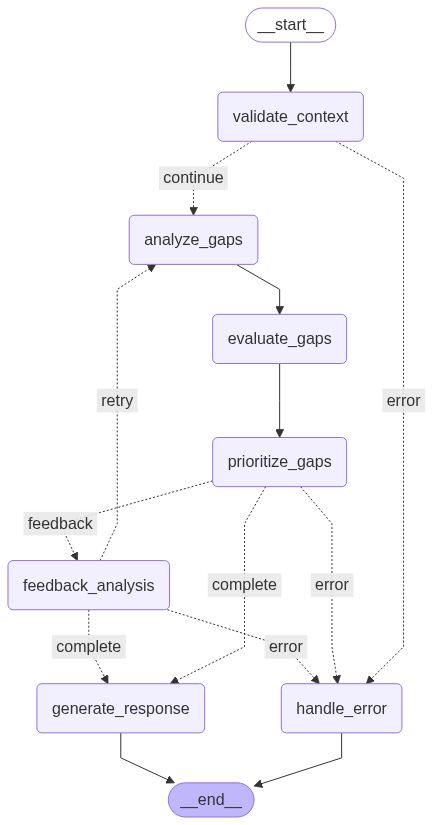
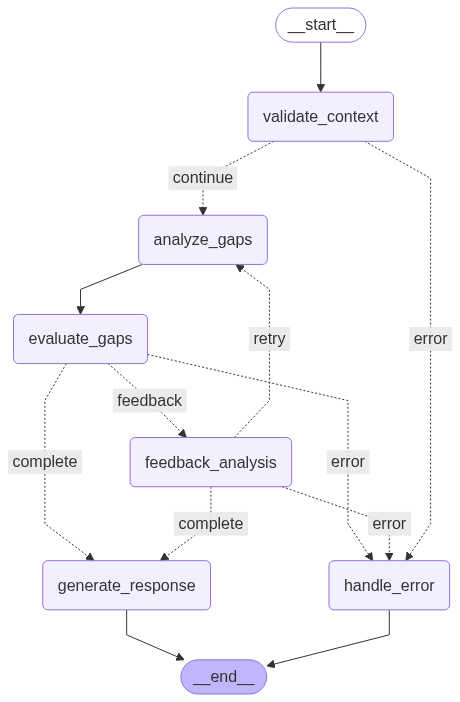
remove gap priorization

diff --git a/gapanalyzer/workflow.py b/gapanalyzer/workflow.py
@@ -26,7 +26,6 @@ from .schemas import (
     EducationalContext,
     IdentifiedGap,
     GapEvaluation,
-    PrioritizedGap,
     GapAnalysisResult,
     GapAnalysisResponse,
     GapSeverity,
@@ -45,8 +44,7 @@ class GapAnalysisWorkflow:
     1. retrieve_context: Get educational context from KG
     2. analyze_gaps: Identify learning gaps from student question
     3. evaluate_gaps: Assess relevance and importance of gaps
-    4. prioritize_gaps: Rank gaps by pedagogical importance
-    5. generate_response: Create final structured response
+    4. generate_response: Create final structured response
     """
     
     def __init__(self):
@@ -63,7 +61,6 @@ class GapAnalysisWorkflow:
         workflow.add_node("validate_context", self._validate_context)
         workflow.add_node("analyze_gaps", self._analyze_gaps)
         workflow.add_node("evaluate_gaps", self._evaluate_gaps)
-        workflow.add_node("prioritize_gaps", self._prioritize_gaps)
         workflow.add_node("feedback_analysis", self._feedback_analysis)
         workflow.add_node("generate_response", self._generate_response)
         workflow.add_node("handle_error", self._handle_error)
@@ -74,13 +71,12 @@ class GapAnalysisWorkflow:
         # Add basic edges
         workflow.add_edge("validate_context", "analyze_gaps")
         workflow.add_edge("analyze_gaps", "evaluate_gaps")
-        workflow.add_edge("evaluate_gaps", "prioritize_gaps")
         workflow.add_edge("generate_response", END)
         workflow.add_edge("handle_error", END)
         
         # Add conditional edges for feedback loop
         workflow.add_conditional_edges(
-            "prioritize_gaps",
+            "evaluate_gaps",
             self._should_do_feedback,
             {
                 "feedback": "feedback_analysis",
@@ -124,10 +120,10 @@ class GapAnalysisWorkflow:
         
         # Check if we should do feedback based on gap analysis quality
         if (state.feedback_iterations < state.max_feedback_iterations and
-            len(state.prioritized_gaps) > 0):
+            len(state.evaluated_gaps) > 0):
             
             # Analyze if gaps seem incomplete or low confidence
-            avg_confidence = sum(pg.evaluation.priority_score for pg in state.prioritized_gaps) / len(state.prioritized_gaps)
+            avg_confidence = sum(eval_gap.priority_score for eval_gap in state.evaluated_gaps) / len(state.evaluated_gaps)
             
             if avg_confidence < 0.6 or state.educational_context.needs_theory_lookup:
                 state.needs_feedback = True
@@ -422,49 +418,6 @@ Evalúa cada gap según los criterios pedagógicos.""")
         
         return state
     
-    async def _prioritize_gaps(self, state: WorkflowState) -> WorkflowState:
-        """
-        Node 4: Prioritize gaps by pedagogical importance.
-        
-        This node combines the gaps with their evaluations and ranks them by priority.
-        Recommendation generation is handled by a separate agent.
-        """
-        try:
-            logger.info("Prioritizing gaps by pedagogical importance")
-            
-            # Create gap-evaluation pairs
-            gap_eval_pairs = []
-            for gap in state.raw_gaps:
-                # Find corresponding evaluation
-                evaluation = next(
-                    (eval for eval in state.evaluated_gaps if eval.gap_id == gap.gap_id),
-                    None
-                )
-                if evaluation:
-                    gap_eval_pairs.append((gap, evaluation))
-            
-            # Sort by priority score (highest first)
-            gap_eval_pairs.sort(key=lambda x: x[1].priority_score, reverse=True)
-            
-            # Create PrioritizedGap objects without recommendations
-            prioritized_gaps = []
-            for i, (gap, evaluation) in enumerate(gap_eval_pairs):
-                prioritized_gap = PrioritizedGap(
-                    gap=gap,
-                    evaluation=evaluation,
-                    rank=i + 1,
-                    recommended_actions=[]  # Empty - handled by separate recommendation agent
-                )
-                prioritized_gaps.append(prioritized_gap)
-            
-            state.prioritized_gaps = prioritized_gaps
-            logger.info(f"Prioritized {len(prioritized_gaps)} gaps by pedagogical importance")
-                
-        except Exception as e:
-            logger.error(f"Error in gap prioritization: {e}")
-            state.error_message = f"Gap prioritization failed: {str(e)}"
-        
-        return state
     
     async def _generate_response(self, state: WorkflowState) -> WorkflowState:
         """
@@ -479,7 +432,7 @@ Evalúa cada gap según los criterios pedagógicos.""")
             confidence_factors = []
             
             # Factor 1: Number of gaps found (more gaps = more thorough analysis)
-            gap_count = len(state.prioritized_gaps)
+            gap_count = len(state.raw_gaps)
             if gap_count >= 3:
                 confidence_factors.append(0.9)
             elif gap_count >= 2:
@@ -505,15 +458,13 @@ Evalúa cada gap según los criterios pedagógicos.""")
             
             # Generate summary
             summary_parts = []
-            if state.prioritized_gaps:
-                top_gap = state.prioritized_gaps[0]
-                summary_parts.append(f"Se identificaron {len(state.prioritized_gaps)} gaps de aprendizaje.")
-                summary_parts.append(f"El gap de mayor prioridad es: {top_gap.gap.title}")
+            if state.raw_gaps:
+                summary_parts.append(f"Se identificaron {len(state.raw_gaps)} gaps de aprendizaje.")
                 
                 # Add severity distribution
                 severity_counts = {}
-                for pg in state.prioritized_gaps:
-                    severity = pg.gap.severity.value
+                for gap in state.raw_gaps:
+                    severity = gap.severity.value
                     severity_counts[severity] = severity_counts.get(severity, 0) + 1
                 
                 if severity_counts:
@@ -535,8 +486,8 @@ Evalúa cada gap según los criterios pedagógicos.""")
             final_result = GapAnalysisResult(
                 student_context=state.student_context,
                 educational_context=state.educational_context,
-                identified_gaps=[pg.gap for pg in state.prioritized_gaps],
-                prioritized_gaps=state.prioritized_gaps,
+                identified_gaps=state.raw_gaps,
+                prioritized_gaps=[],  # Empty since we removed prioritization
                 summary=summary,
                 confidence_score=confidence_score,
                 recommendations=general_recommendations
@@ -593,23 +544,26 @@ Evalúa cada gap según los criterios pedagógicos.""")
                     logger.info(f"Retrieved theoretical content for: {main_concept}")
             
             # Analyze gap quality and decide if another iteration is warranted
-            if len(state.prioritized_gaps) == 0:
+            if len(state.raw_gaps) == 0:
                 state.feedback_reason = "No se encontraron gaps - se requiere análisis más profundo"
                 state.needs_feedback = True
-            elif len(state.prioritized_gaps) < 2:
+            elif len(state.raw_gaps) < 2:
                 # Check if the single gap is comprehensive
-                single_gap = state.prioritized_gaps[0]
-                if len(single_gap.gap.description) < 50:
+                single_gap = state.raw_gaps[0]
+                if len(single_gap.description) < 50:
                     state.feedback_reason = "Gap identificado parece superficial - se requiere análisis más detallado"
                     state.needs_feedback = True
                 else:
                     state.needs_feedback = False
             else:
-                # Check overall confidence
-                avg_priority = sum(pg.evaluation.priority_score for pg in state.prioritized_gaps) / len(state.prioritized_gaps)
-                if avg_priority < 0.5:
-                    state.feedback_reason = "Baja confianza en priorización - refinando análisis"
-                    state.needs_feedback = True
+                # Check overall confidence based on evaluations
+                if state.evaluated_gaps:
+                    avg_confidence = sum(eval_gap.priority_score for eval_gap in state.evaluated_gaps) / len(state.evaluated_gaps)
+                    if avg_confidence < 0.5:
+                        state.feedback_reason = "Baja confianza en evaluación - refinando análisis"
+                        state.needs_feedback = True
+                    else:
+                        state.needs_feedback = False
                 else:
                     state.needs_feedback = False
             
@@ -643,7 +597,7 @@ Evalúa cada gap según los criterios pedagógicos.""")
                 theory_background="Error al recuperar contexto"
             ),
             identified_gaps=[],
-            prioritized_gaps=[],
+            prioritized_gaps=[],  # Empty since prioritization was removed
             summary=f"Error en el análisis: {state.error_message}",
             confidence_score=0.0,
             recommendations=["Intentar nuevamente", "Verificar conexto proporcionado", "Contactar soporte técnico"]

diff --git a/gapanalyzer/agent.py b/gapanalyzer/agent.py
@@ -22,22 +22,20 @@ class GapAnalyzerAgent:
     Educational Gap Analyzer Agent.
     
     This agent analyzes student questions about practice exercises to identify
-    learning gaps, evaluate their importance, and provide prioritized recommendations
-    for addressing those gaps.
+    learning gaps and evaluate their importance for addressing learning needs.
     
     The agent uses a sophisticated LangGraph workflow that:
     1. Retrieves educational context from the knowledge graph
     2. Analyzes the student's question to identify specific learning gaps
     3. Evaluates gaps for pedagogical relevance and importance
-    4. Prioritizes gaps and generates specific recommendations
-    5. Provides a structured analysis with actionable insights
+    4. Provides a structured analysis with actionable insights
     """
 
     SYSTEM_INSTRUCTION = (
         'Eres un tutor inteligente especializado en análisis de gaps educativos. '
         'Tu función es analizar las preguntas de los estudiantes sobre ejercicios prácticos '
         'para identificar gaps específicos en su aprendizaje y proporcionar recomendaciones '
-        'priorizadas para abordar esos gaps. '
+        'para abordar esos gaps. '
         'Utilizas el contexto educativo completo incluyendo teoría, objetivos, ejercicios, '
         'soluciones y tips del profesor para realizar un análisis profundo y pedagógicamente relevante.'
     )
@@ -155,16 +153,13 @@ class GapAnalyzerAgent:
             response_parts.append(f"**Confianza del análisis:** {result.confidence_score:.1%}")
             response_parts.append("")
             
-            # Top priority gaps
-            if result.prioritized_gaps:
-                response_parts.append("**GAPS IDENTIFICADOS (por prioridad):**")
+            # Identified gaps
+            if result.identified_gaps:
+                response_parts.append("**GAPS IDENTIFICADOS:**")
                 response_parts.append("")
                 
-                for i, pg in enumerate(result.prioritized_gaps[:5], 1):  # Show top 5
-                    gap = pg.gap
-                    eval = pg.evaluation
-                    
-                    response_parts.append(f"**{i}. {gap.title}** (Prioridad: {eval.priority_score:.2f})")
+                for i, gap in enumerate(result.identified_gaps, 1):
+                    response_parts.append(f"**{i}. {gap.title}**")
                     response_parts.append(f"   Descripción: {gap.description}")
                     response_parts.append(f"   Categoría: {gap.category.value.title()}")
                     response_parts.append(f"   Severidad: {gap.severity.value.title()}")
@@ -172,12 +167,6 @@ class GapAnalyzerAgent:
                     
                     if gap.affected_concepts:
                         response_parts.append(f"   Conceptos afectados: {', '.join(gap.affected_concepts)}")
-                    
-                    # Individual gap recommendations handled by separate agent
-                    # if pg.recommended_actions:
-                    #     response_parts.append("   **Acciones recomendadas:**")
-                    #     for action in pg.recommended_actions:
-                    #         response_parts.append(f"      • {action}")
                     
                     response_parts.append("")
             else:
@@ -245,11 +234,11 @@ class GapAnalyzerAgent:
                 'content': 'Evaluando relevancia pedagógica de los gaps...',
             }
             
-            # Step 5: Prioritization
+            # Step 5: Generating recommendations
             yield {
                 'is_task_complete': False,
                 'require_user_input': False,
-                'content': 'Priorizando gaps y generando recomendaciones...',
+                'content': 'Generando recomendaciones...',
             }
             
             # Run the actual analysis
@@ -293,8 +282,8 @@ class GapAnalyzerAgent:
                 'structured_response': GapAnalysisResponse(
                     status=status,
                     message=result.summary,
-                    gaps_found=len(result.prioritized_gaps),
-                    top_priority_gaps=[pg.gap.title for pg in result.prioritized_gaps[:3]],
+                    gaps_found=len(result.identified_gaps),
+                    top_priority_gaps=[gap.title for gap in result.identified_gaps[:3]],
                     detailed_analysis=result
                 )
             }
